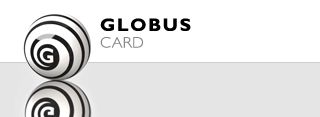
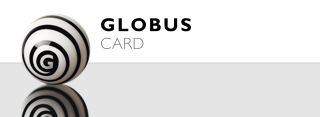
Recreated MobileFooter image resource (including @3x size) Improved CSS logic for .footer class in coupon*.css (responsive) Fixed [GAMIA-39]

Changed region(s): [[0.0, 0.1026, 1.0, 1.0], [0.3125, 0.1538, 0.5938, 0.2821], [0.3125, 0.3077, 0.4688, 0.4359]]

diff --git a/Ressources/HTML/css/coupon-inactive.css b/Ressources/HTML/css/coupon-inactive.css
@@ -66,8 +66,8 @@ clear: both;
 }
 .footer{
   margin:50px 0 0 0;
-  height:110px;
-  width:320px;
+  height:117px;
+  width:100%;
   background:url(MobileFooter.png) no-repeat center center;
   opacity:0.5;
 }
@@ -88,6 +88,16 @@ body.reduced .topimg{
         -webkit-background-size: auto auto;
         margin: 25px auto;
         background: transparent url('MobileFooter@2x.png') no-repeat center center;
-		background-size: 100%;
+		background-size: 100% auto;
+    }
+}
+
+@media screen and (-webkit-device-pixel-ratio: 3)
+{
+    .footer {
+        -webkit-background-size: auto auto;
+        margin: 25px auto;
+        background: transparent url('MobileFooter@3x.png') no-repeat center center;
+        background-size: 100% auto;
     }
 }

diff --git a/Ressources/HTML/css/coupon.css b/Ressources/HTML/css/coupon.css
@@ -65,8 +65,8 @@ clear: both;
 }
 .footer{
   margin:50px 0 0 0;
-  height:110px;
-  width:320px;
+  height:117px;
+  width:100%;
   background:url(MobileFooter.png) no-repeat center center;
 }
 
@@ -87,6 +87,16 @@ body.reduced .topimg{
         -webkit-background-size: auto auto;
         background: transparent url('MobileFooter@2x.png') no-repeat center center;
         vertical-align: middle;
-		background-size: 100%;
+		background-size: 100% auto;
+    }
+}
+
+@media screen and (-webkit-device-pixel-ratio: 3)
+{
+    .footer {
+        -webkit-background-size: auto auto;
+        background: transparent url('MobileFooter@3x.png') no-repeat center center;
+        vertical-align: middle;
+        background-size: 100% auto;
     }
 }

diff --git a/Ressources/HTML/css/coupon-inactive-iPad.css b/Ressources/HTML/css/coupon-inactive-iPad.css
@@ -67,7 +67,7 @@ clear: both;
 .footer{
   margin:100px 0 0 0;
   height:234px;
-  width:768px;
+  width:100%;
   background:url(MobileFooter_iPad.png) no-repeat center center;
   opacity:0.5;
 }

diff --git a/Ressources/HTML/css/coupon-iPad.css b/Ressources/HTML/css/coupon-iPad.css
@@ -66,7 +66,7 @@ clear: both;
 .footer{
   margin:100px 0 0 0;
   height:234px;
-  width:768px;
+  width:100%;
   background:url(MobileFooter_iPad.png) no-repeat center center;
 }
 
